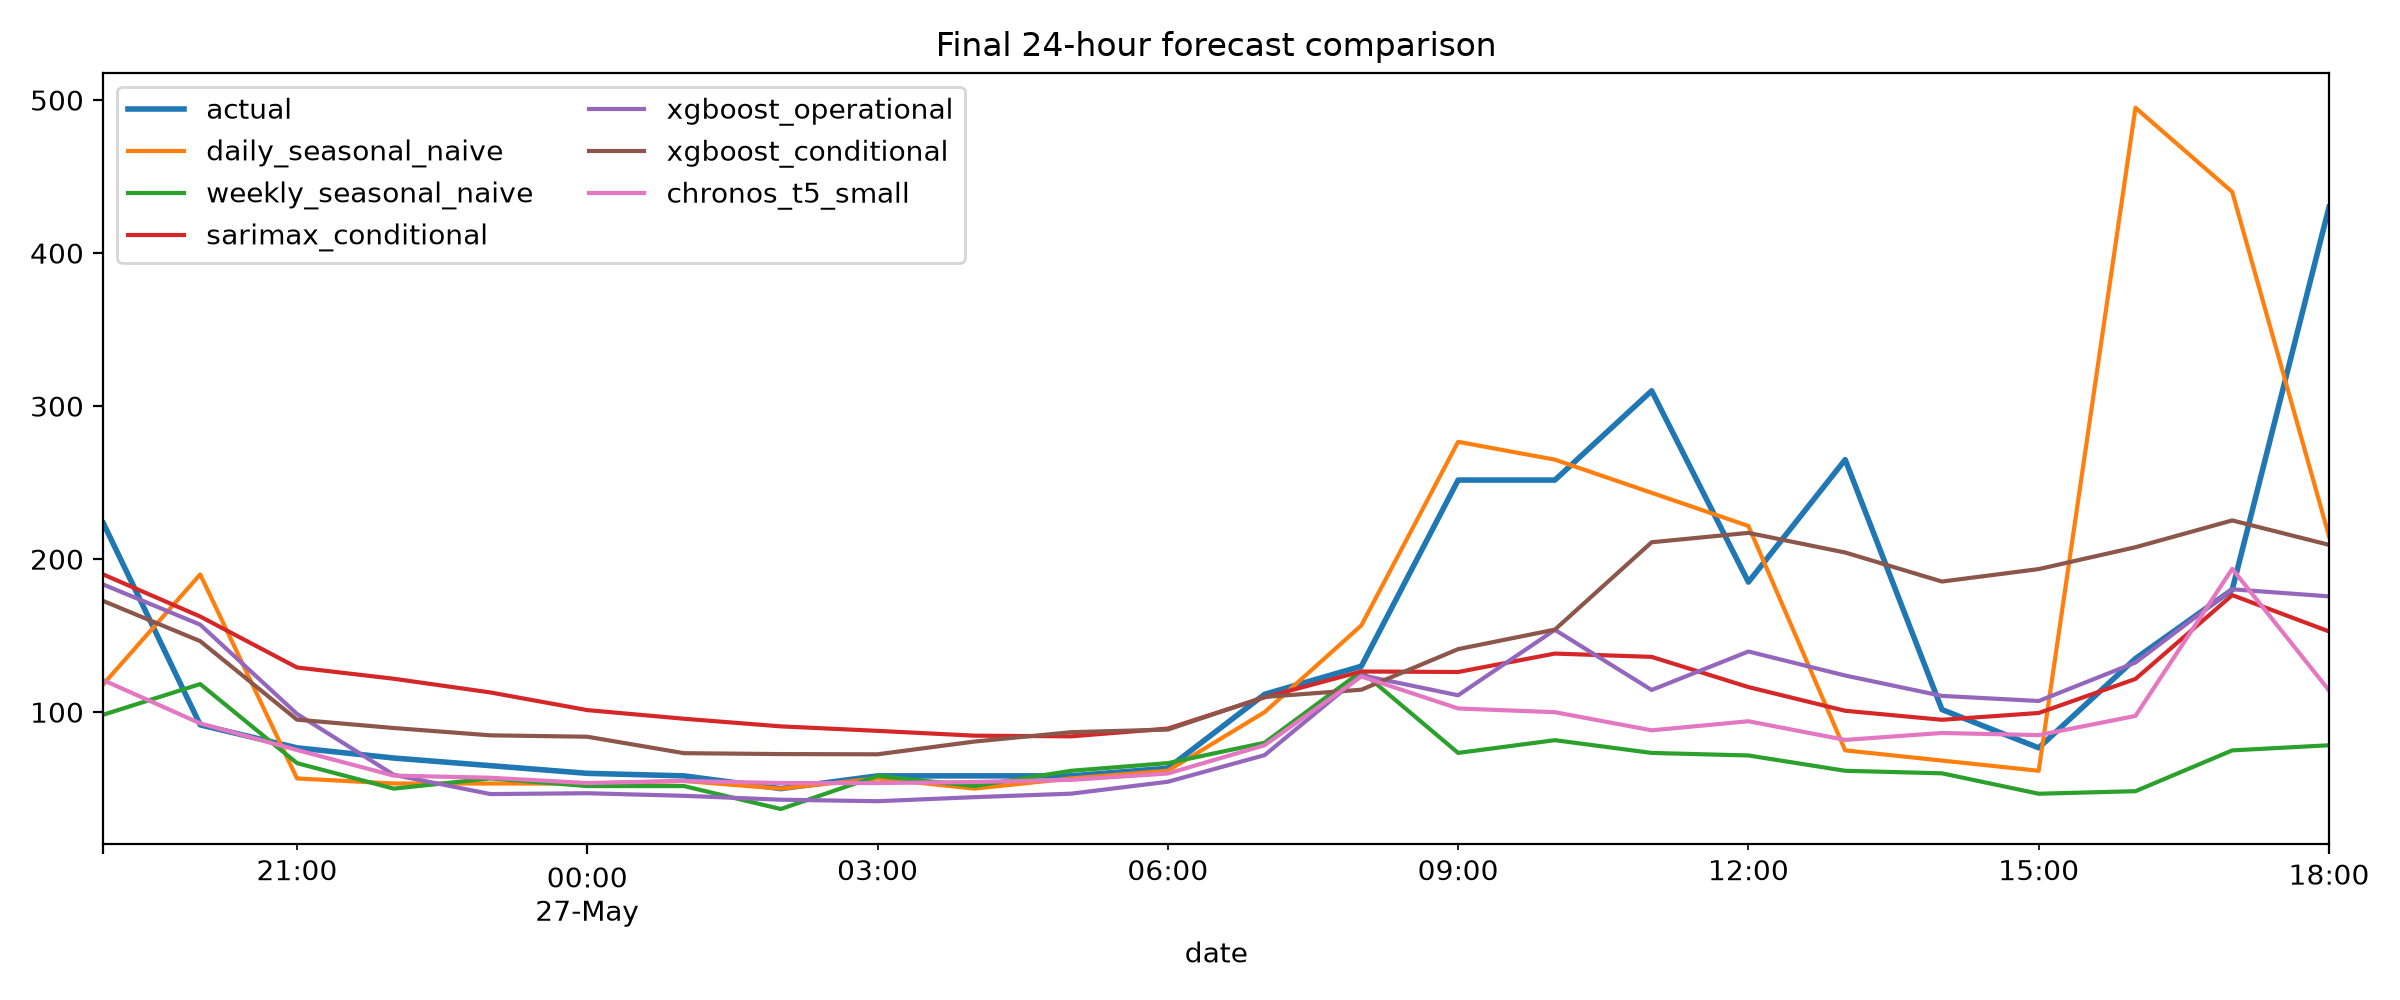
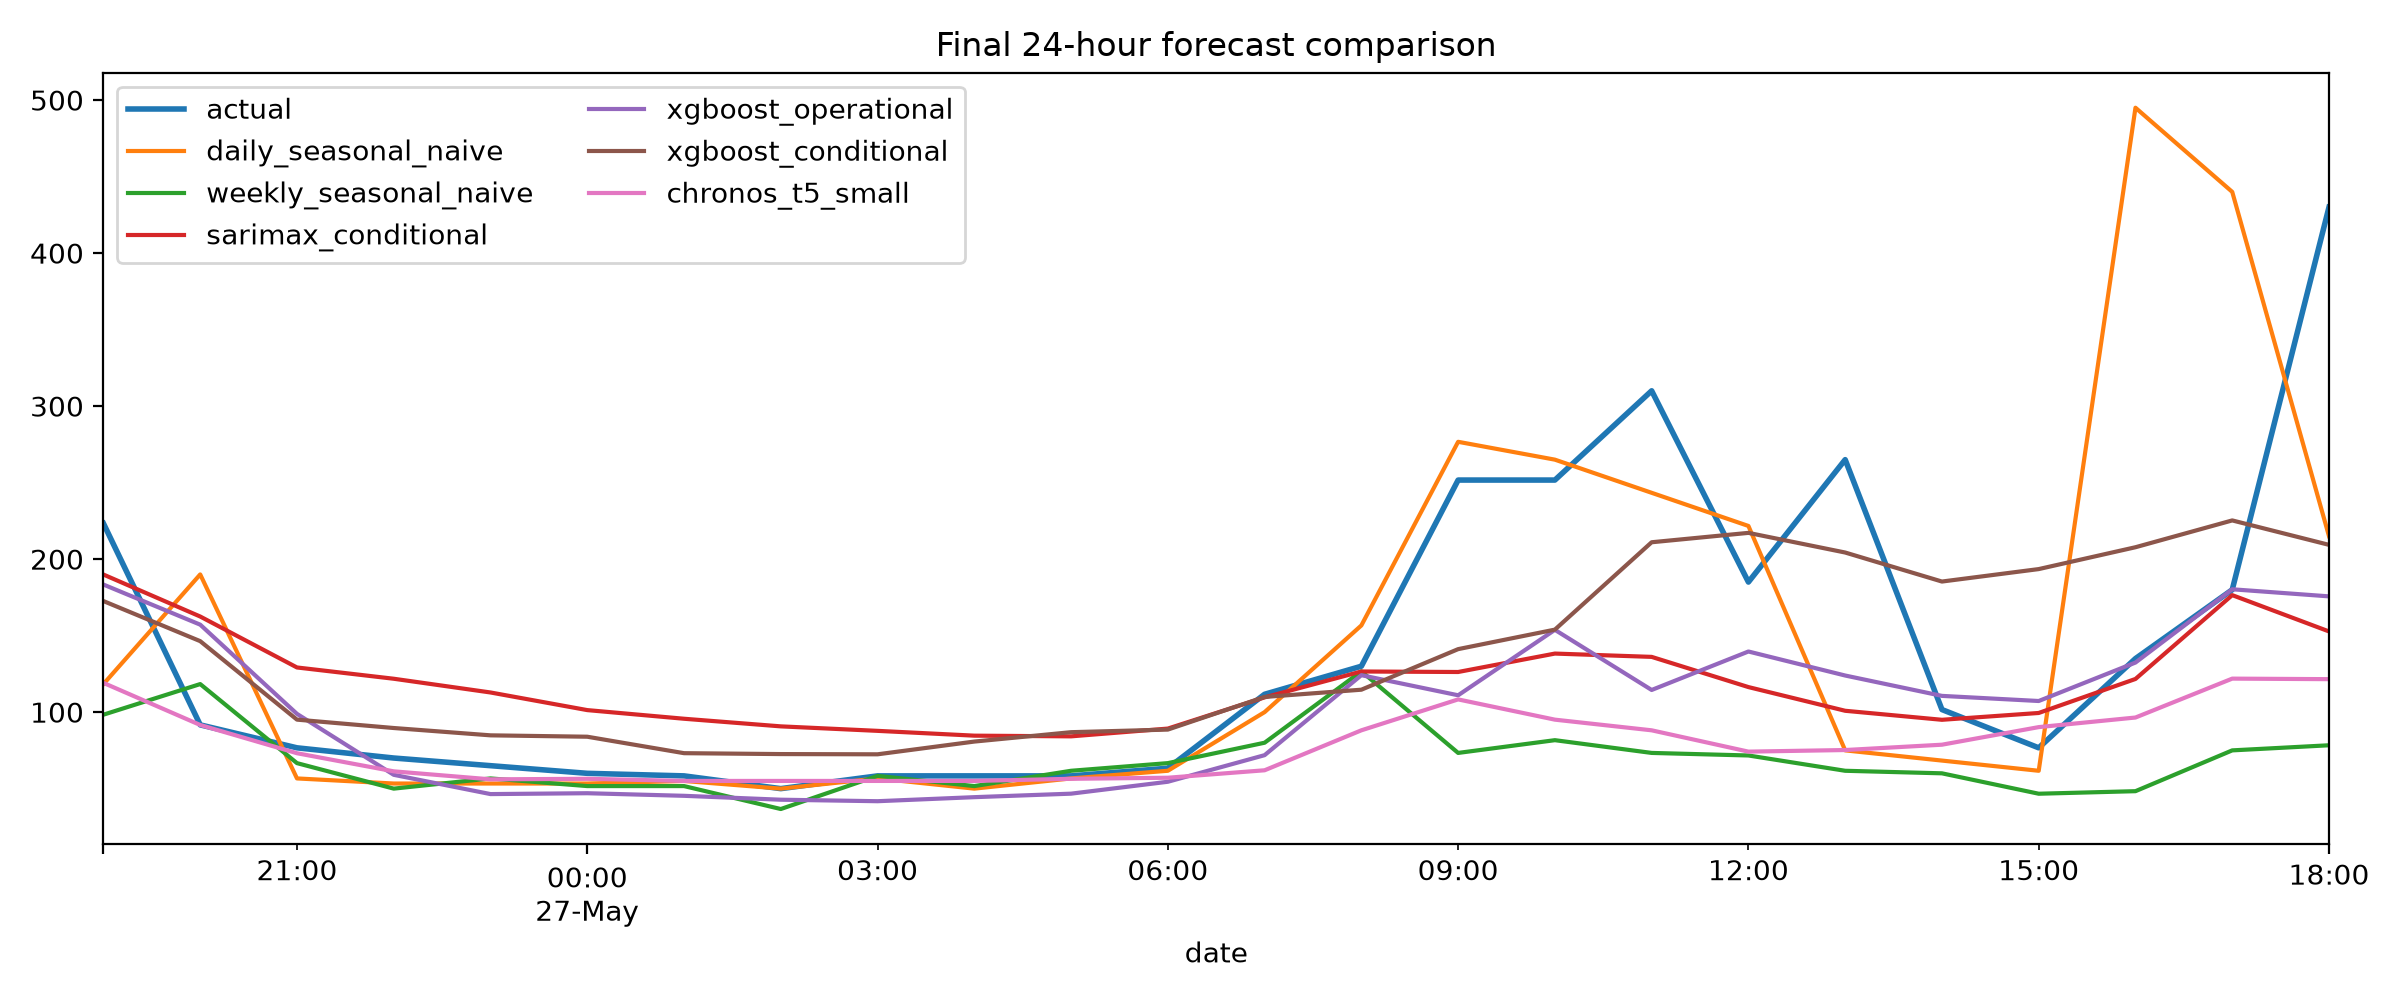
Make Chronos forecasts reproducible and update results

diff --git a/scripts/run_full_analysis.py b/scripts/run_full_analysis.py
@@ -14,7 +14,17 @@ from xgboost import XGBRegressor
 from statsmodels.tsa.statespace.sarimax import SARIMAX
 from statsmodels.tsa.stattools import adfuller
 from statsmodels.graphics.tsaplots import plot_acf
+import random
+import torch
 
+RANDOM_SEED = 42
+
+random.seed(RANDOM_SEED)
+np.random.seed(RANDOM_SEED)
+torch.manual_seed(RANDOM_SEED)
+
+if torch.cuda.is_available():
+    torch.cuda.manual_seed_all(RANDOM_SEED)
 
 ROOT = Path(__file__).resolve().parents[1]
 DATA = ROOT / "energydata_complete.csv"
